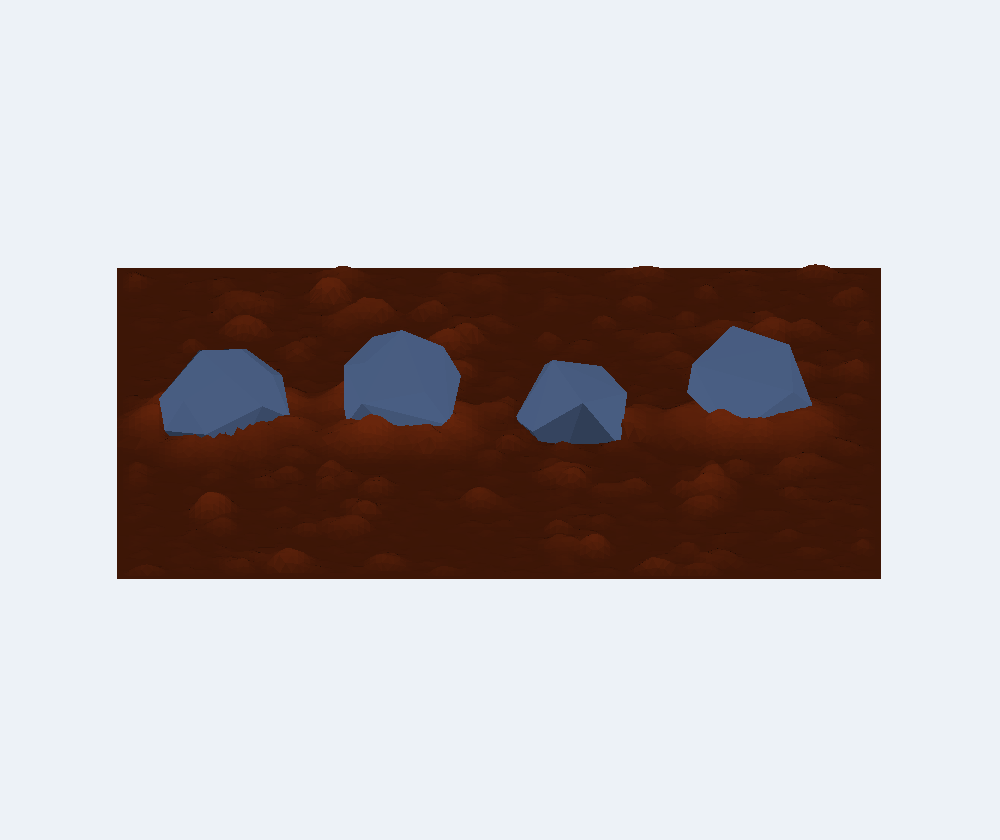
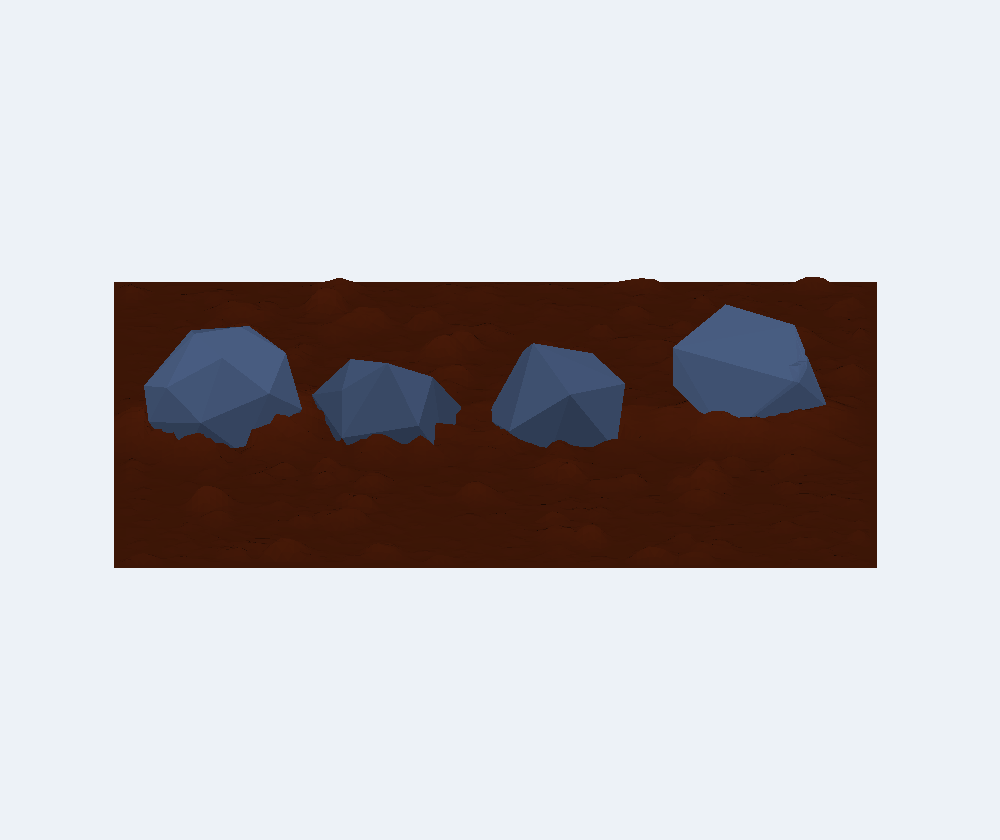
Weathering: per-stone lumpiness paired with facet count
Facet count alone didn't read as weathering (Shawn). lumpiness is now a
StoneSpec field; the sweep pairs the knobs — sharp = 8 facets + 0.20
lumpiness, weathered cobble = 24 facets + 0.04 — and the progression
reads. Sweep STL added to the demo set.

Claude-Session: https://claude.ai/code/session_01N52X1qVoRMnzi1jxnvUHEL

Changed region(s): [[0.093, 0.3095, 0.899, 0.7119], [0.124, 0.3714, 0.465, 0.5571], [0.496, 0.4024, 0.651, 0.5571]]

diff --git a/docs/rocks/weathering-sweep.tile.py b/docs/rocks/weathering-sweep.tile.py
@@ -6,15 +6,21 @@ from dharmatiles.spec import Tile, Region, FloodFill, SurfaceConfig
 from dharmatiles.layers import SoilCarpet
 from dharmatiles.scatter.stones import FacetedStones, StoneSpec
 
+# Weathering pairs the two knobs: sharp = few facets + high lumpiness,
+# weathered cobble = many facets + low lumpiness.
 sweep = [
-    StoneSpec(x=6.0,  y=17.5, footprint_mm=6.5, height_mm=6.0,
-              aspect=0.85, facets=8,  yaw_deg=15.0, burial=1.0, seed=21),
-    StoneSpec(x=14.0, y=17.5, footprint_mm=6.5, height_mm=6.0,
-              aspect=0.85, facets=12, yaw_deg=80.0, burial=1.0, seed=22),
-    StoneSpec(x=22.0, y=17.5, footprint_mm=6.5, height_mm=6.0,
-              aspect=0.85, facets=16, yaw_deg=150.0, burial=1.0, seed=23),
-    StoneSpec(x=30.0, y=17.5, footprint_mm=6.5, height_mm=6.0,
-              aspect=0.85, facets=22, yaw_deg=220.0, burial=1.0, seed=24),
+    StoneSpec(x=6.0,  y=17.5, footprint_mm=8.0, height_mm=7.5,
+              aspect=0.85, facets=8,  lumpiness=0.20,
+              yaw_deg=15.0, burial=1.0, seed=21),
+    StoneSpec(x=14.5, y=17.5, footprint_mm=8.0, height_mm=7.5,
+              aspect=0.85, facets=12, lumpiness=0.14,
+              yaw_deg=80.0, burial=1.0, seed=22),
+    StoneSpec(x=22.5, y=17.5, footprint_mm=8.0, height_mm=7.5,
+              aspect=0.85, facets=17, lumpiness=0.08,
+              yaw_deg=150.0, burial=1.0, seed=23),
+    StoneSpec(x=30.0, y=17.5, footprint_mm=8.0, height_mm=7.5,
+              aspect=0.85, facets=24, lumpiness=0.04,
+              yaw_deg=220.0, burial=1.0, seed=24),
 ]
 
 tile = Tile(

diff --git a/src/dharmatiles/scatter/stones.py b/src/dharmatiles/scatter/stones.py
@@ -110,6 +110,11 @@ class StoneSpec:
     egg:          float | None = None  # per-stone egg taper; None → _EGG_TAPER.
                                        # Low for shards (mass stays high),
                                        # high for lumps (mass sits low)
+    lumpiness:    float | None = None  # per-point radius jitter; None →
+                                       # _LUMPINESS.  Weathering pairs this
+                                       # with facets: sharp = few facets +
+                                       # high lumpiness, weathered cobble =
+                                       # many facets + low lumpiness
     seed:         int   = 0
 
 
@@ -136,7 +141,8 @@ def _support_points(spec: StoneSpec) -> np.ndarray:
     radii = np.array([spec.footprint_mm / 2.0,
                       spec.footprint_mm * spec.aspect / 2.0,
                       spec.height_mm / 2.0])
-    lump = rng.uniform(1.0 - _LUMPINESS, 1.0 + _LUMPINESS, (M, 1))
+    lumpiness = _LUMPINESS if spec.lumpiness is None else spec.lumpiness
+    lump = rng.uniform(1.0 - lumpiness, 1.0 + lumpiness, (M, 1))
     pts  = d * radii * lump
 
     # Egg profile: taper the horizontal radius above _EGG_WIDEST_T so the
